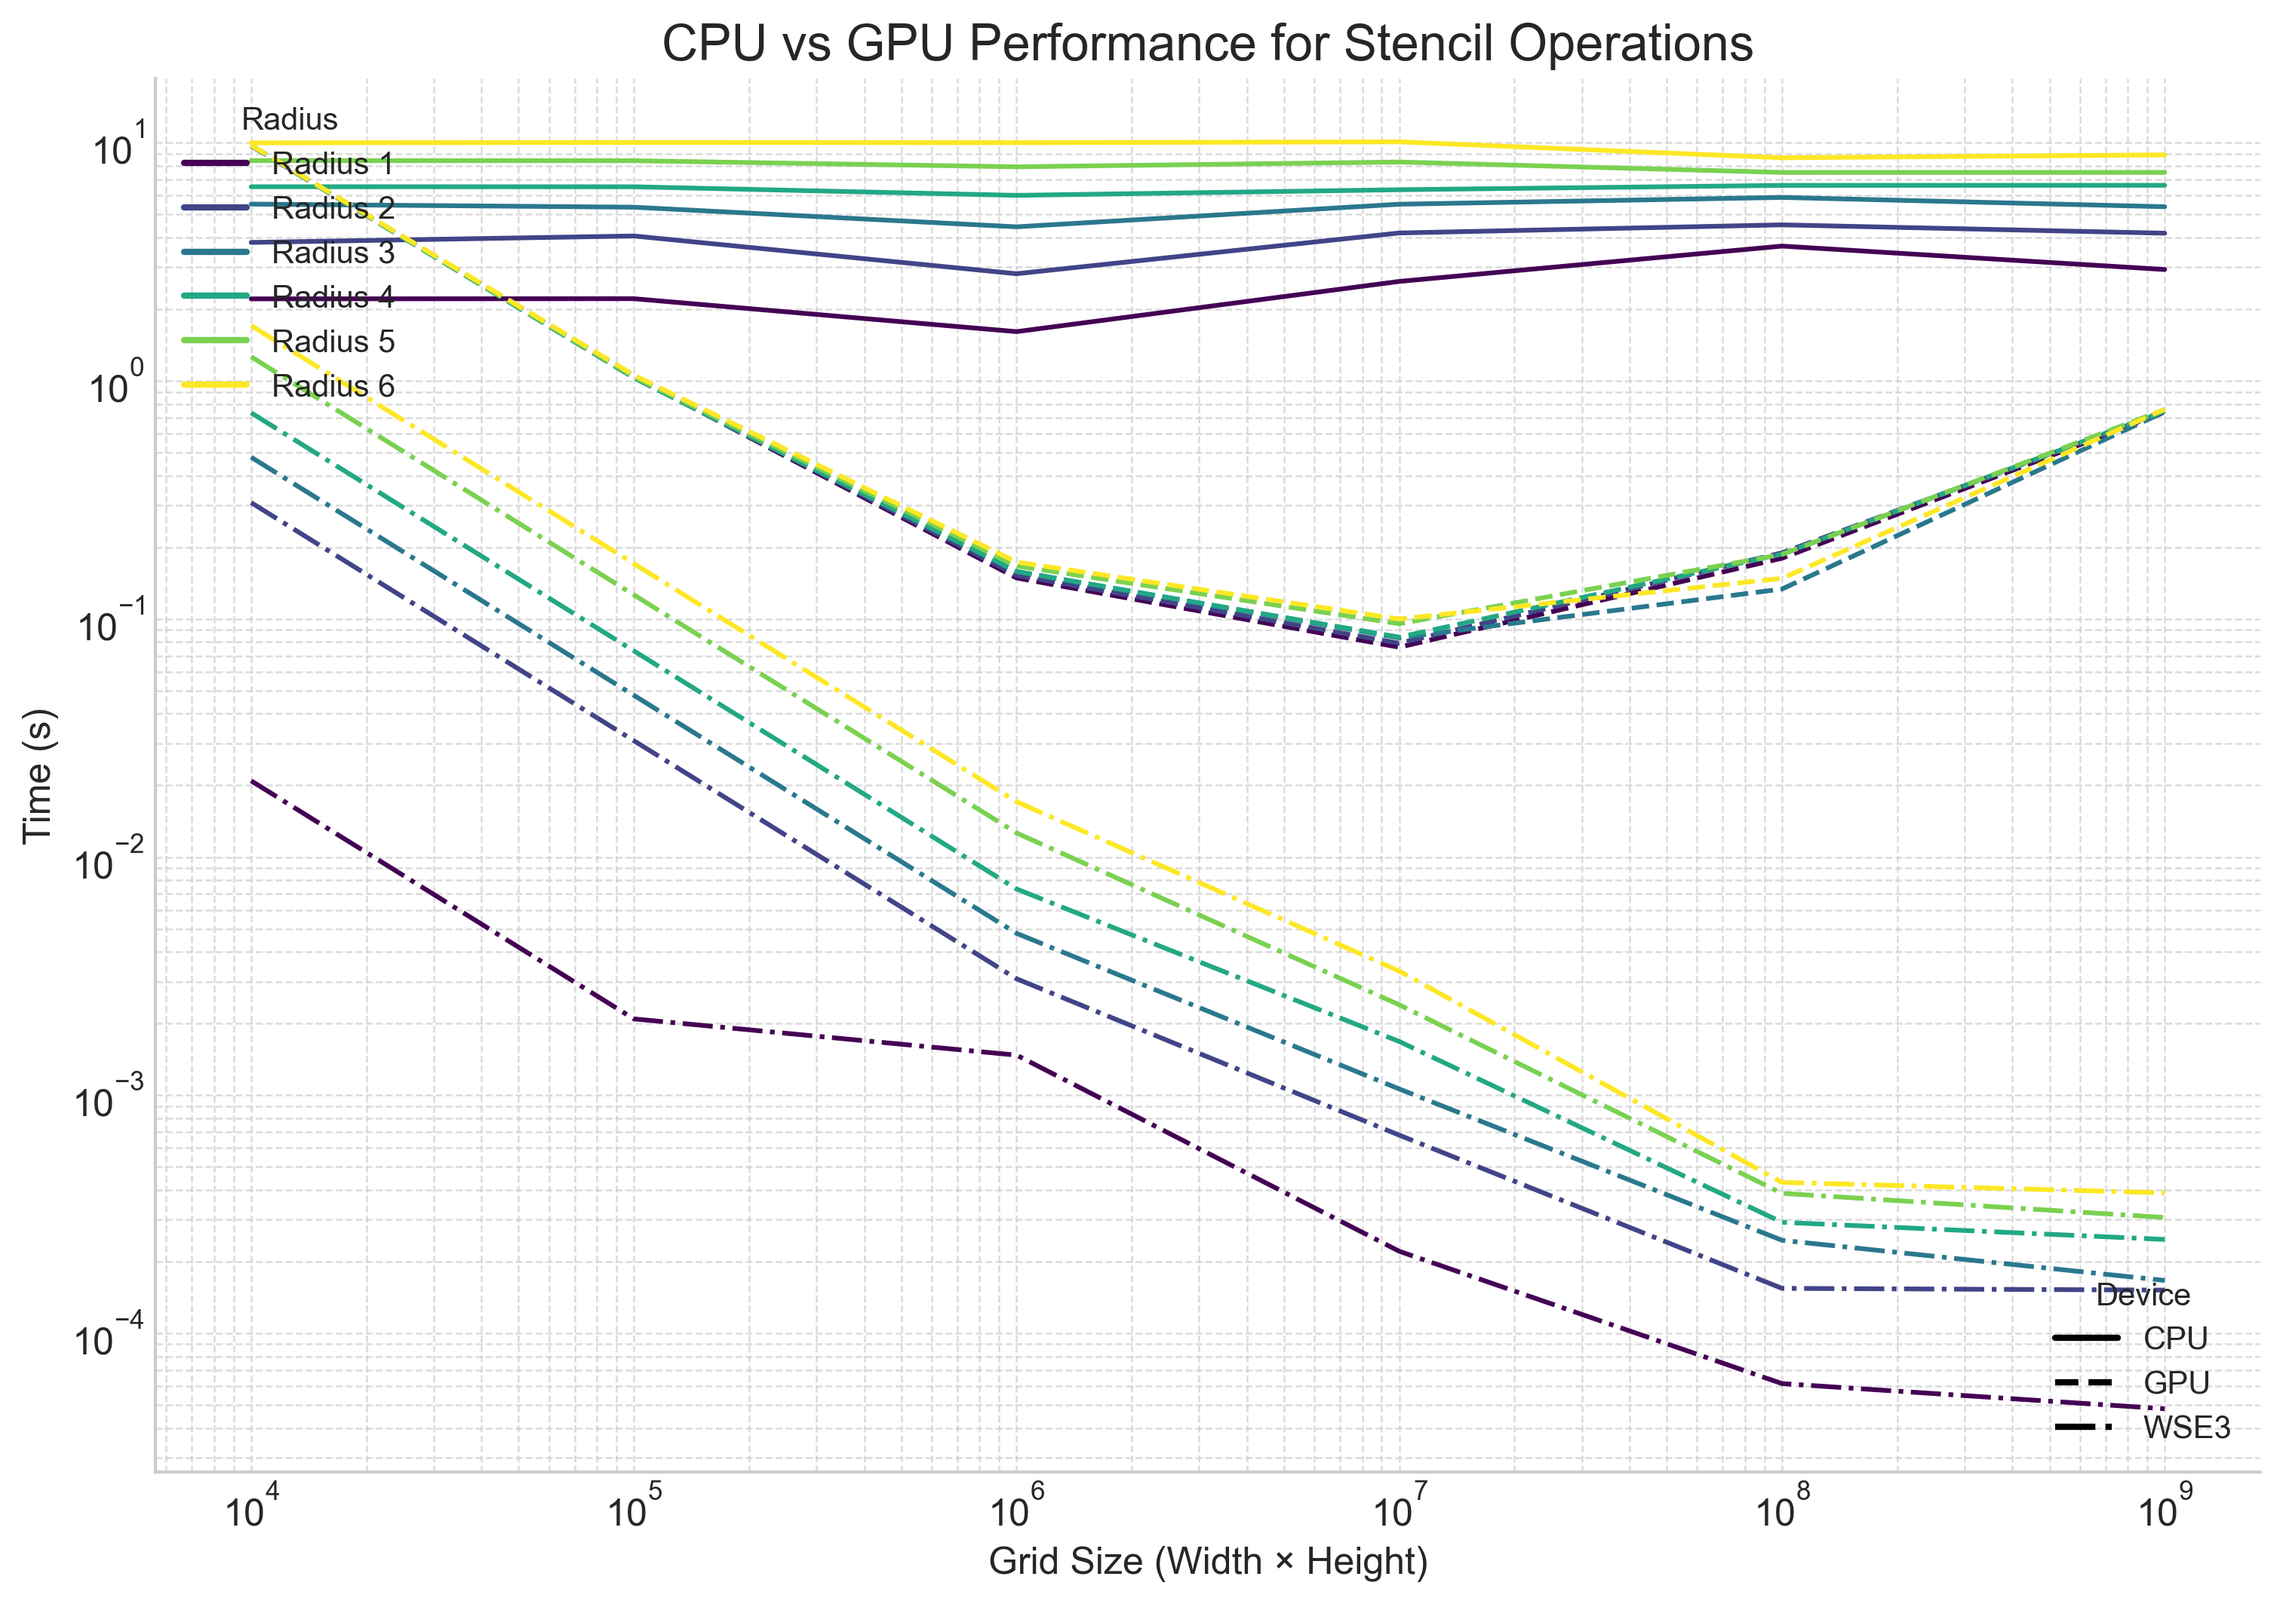
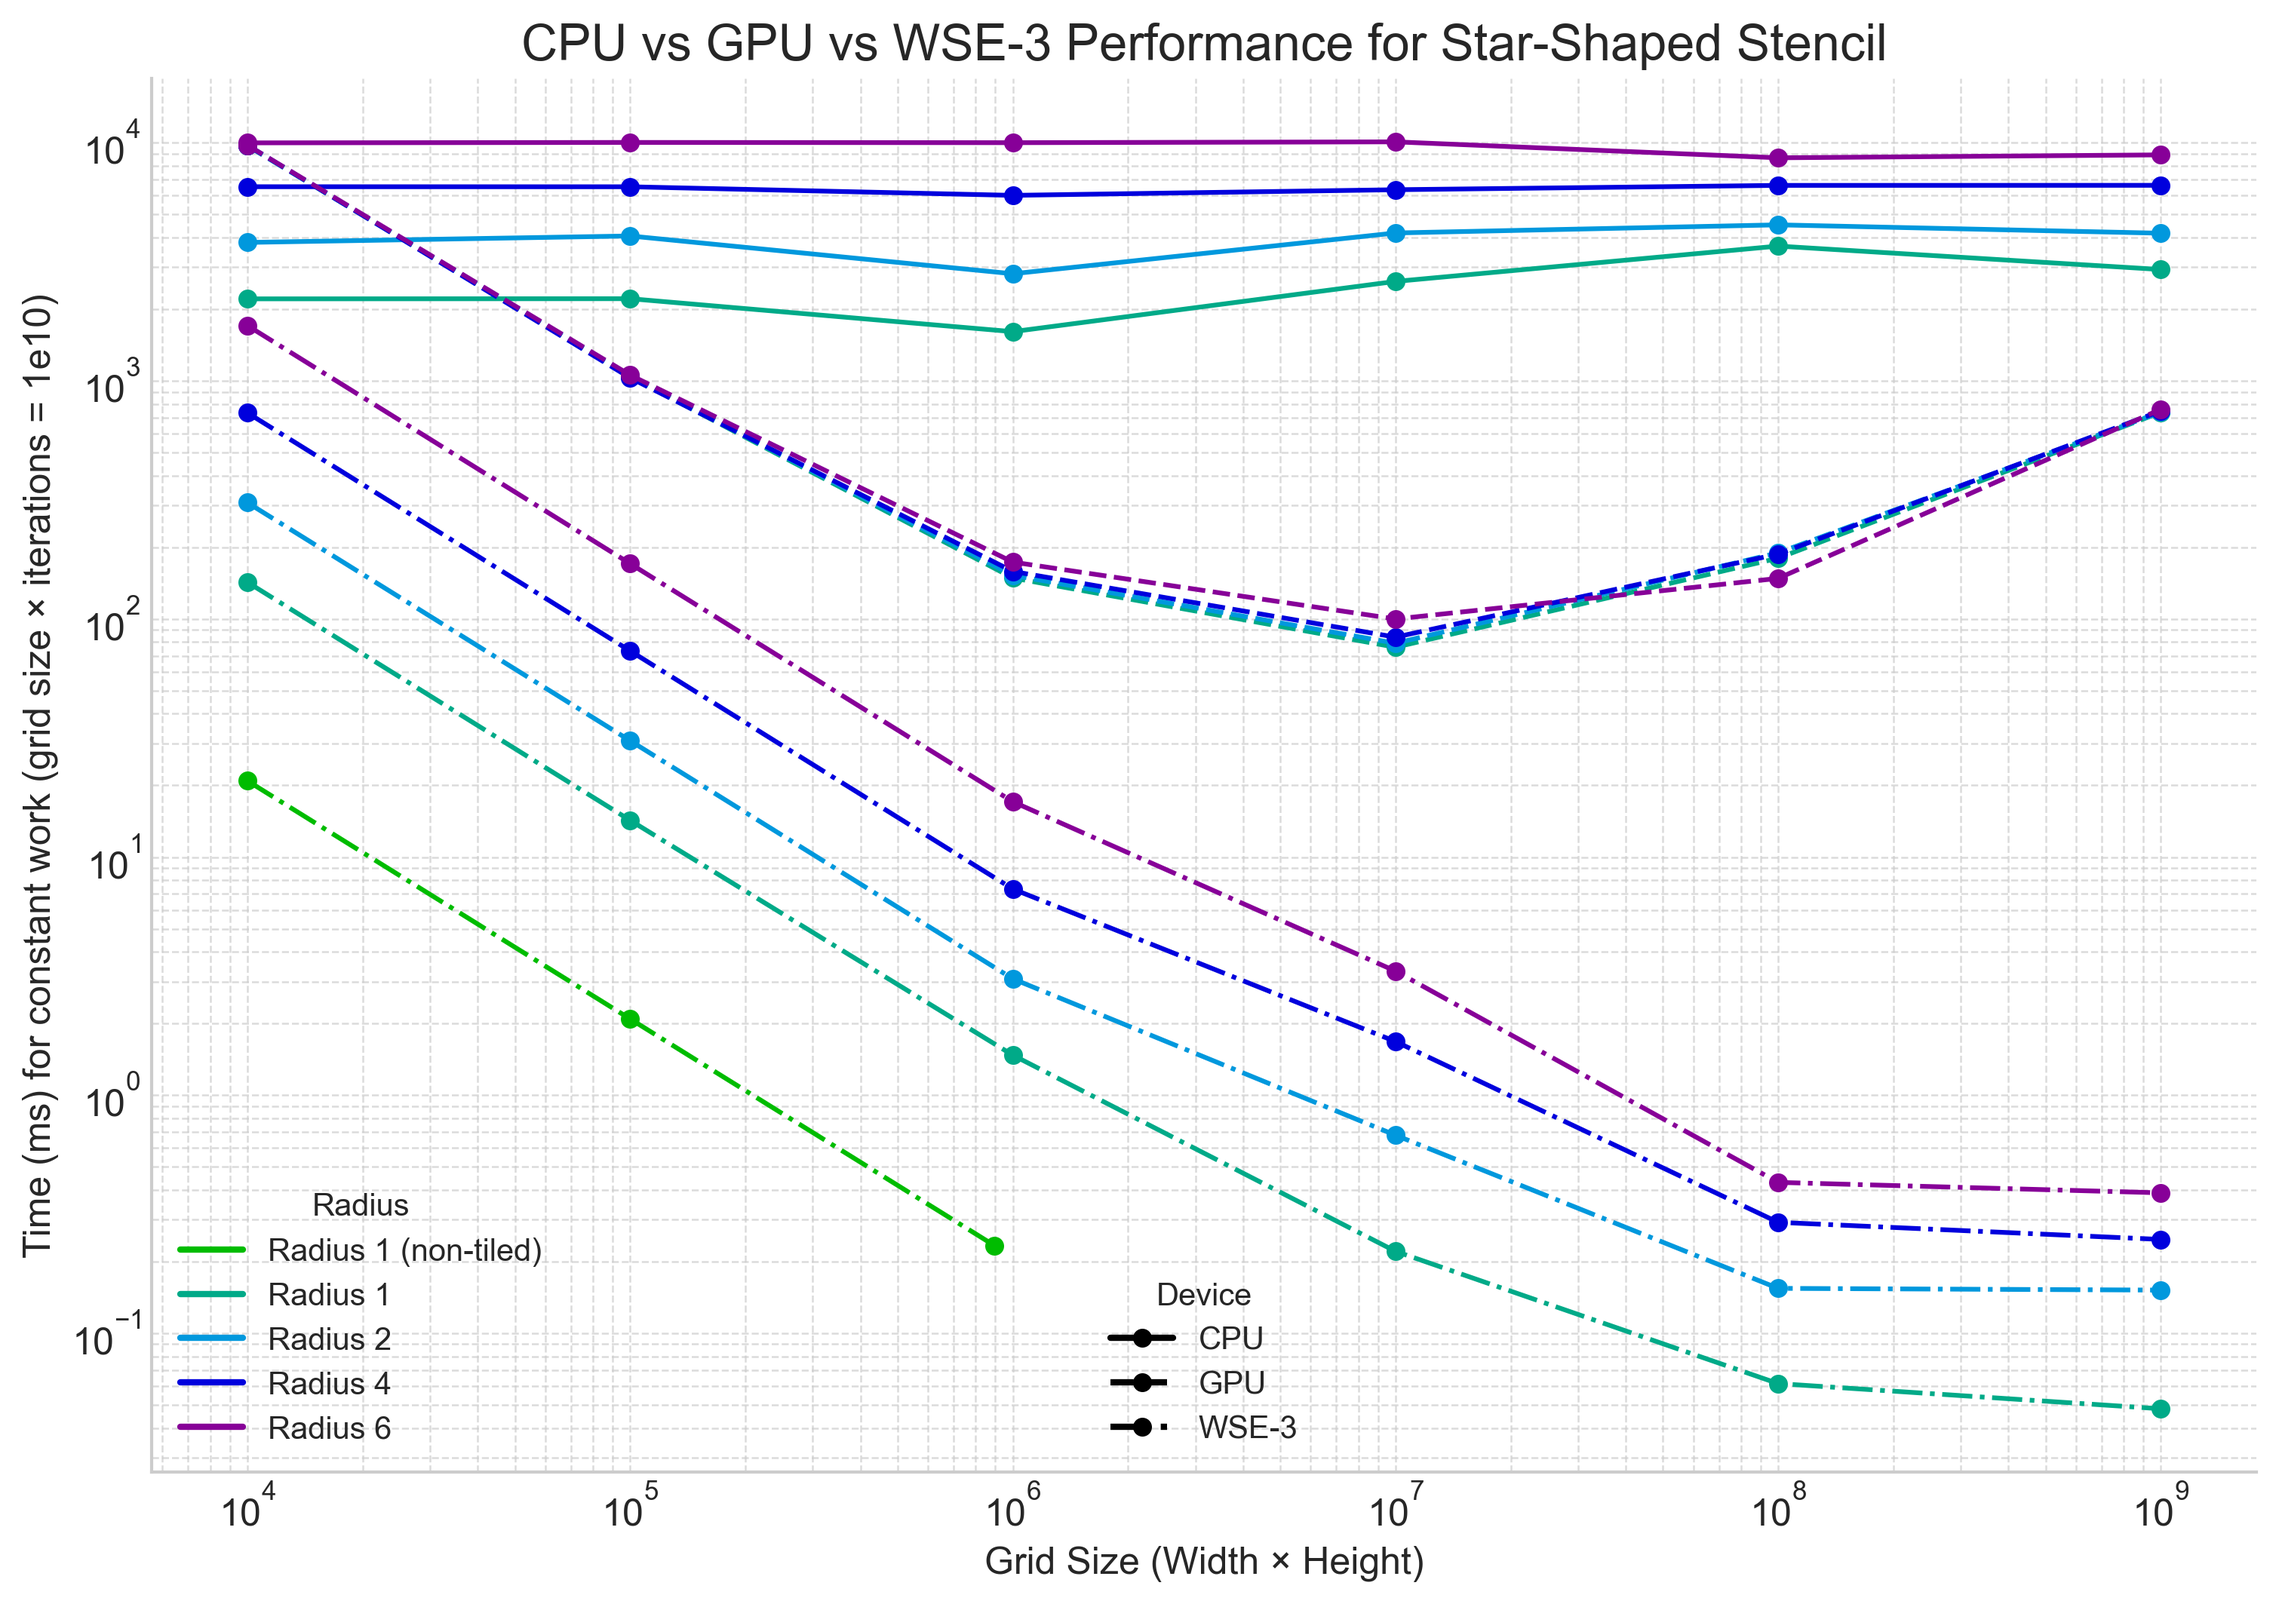
add big compare plot to experiments section

diff --git a/Figures/code/plot_gpu_cpu_constant_product.py b/Figures/code/plot_gpu_cpu_constant_product.py
@@ -52,6 +52,13 @@ Width,Height,Radius,Iterations (N),CPU Time (s),GPU Time (s)
 df_cpu_gpu = pd.read_csv(io.StringIO(data))
 df_cpu_gpu['Grid Size'] = df_cpu_gpu['Width'] * df_cpu_gpu['Height']
 
+# Compute throughput (iterations per second)
+df_cpu_gpu['CPU Iter/s'] = df_cpu_gpu['Iterations (N)'] / df_cpu_gpu['CPU Time (s)']
+df_cpu_gpu['GPU Iter/s'] = df_cpu_gpu['Iterations (N)'] / df_cpu_gpu['GPU Time (s)']
+# Also add time in ms for plotting
+df_cpu_gpu['CPU Time (ms)'] = df_cpu_gpu['CPU Time (s)'] * 1000
+df_cpu_gpu['GPU Time (ms)'] = df_cpu_gpu['GPU Time (s)'] * 1000
+
 # ---------------------------------
 # Cerebras WSE3 data (cycles/iteration)
 # ---------------------------------
@@ -67,6 +74,8 @@ TOTAL_WORK = 10 ** 10
 CLOCK_HZ = 1.1e9  # 1.1 GHz
 MAX_ON_CHIP_GRID = 762 * 1176  # 896 112
 
+USE_IPS = False
+
 # Helper to convert cycles → seconds for given grid size
 def cycles_to_time(cycles_per_iter: int, grid_size: float) -> float:
     iterations = TOTAL_WORK / grid_size
@@ -78,6 +87,7 @@ wse3_cycles = {
     1e8:  {1: 676,  2: 1698,  3: 2703,  4: 3216,  5: 4256,  6: 4732},
     1e7:  {1: 243,  2: 747,  3: 1168,  4: 1848,  5: 2635,  6: 3652},
     1e6:  {1: 162,  2: 339,  3: 526,  4: 808,  5: 1389, 6: 1879},
+    MAX_ON_CHIP_GRID:  {0: 23}, # r=1 overridden below
     1e5:  {1: 157,  2: 339,  3: 526,  4: 808,  5: 1389, 6: 1879},  # r=1 overridden below
     1e4:  {1: 157,  2: 339,  3: 526,  4: 808,  5: 1389, 6: 1879},  # r=1 overridden below
 }
@@ -86,9 +96,27 @@ wse3_cycles = {
 wse3_rows = []
 for grid_size, radius_dict in wse3_cycles.items():
     for radius, cycles in radius_dict.items():
-        eff_cycles = 23 if (radius == 1 and grid_size <= MAX_ON_CHIP_GRID) else cycles
-        time_s = cycles_to_time(eff_cycles, grid_size)
-        wse3_rows.append({'Grid Size': grid_size, 'Radius': radius, 'WSE3 Time (s)': time_s})
+        if radius <= 1:
+            # Add both tiled and non-tiled versions for radius 1
+            if grid_size <= MAX_ON_CHIP_GRID:
+                # Non-tiled version (23 cycles)
+                time_s = cycles_to_time(23, grid_size)
+                time_ms = time_s * 1000
+                iter_per_sec = 1.0 / (23 / CLOCK_HZ)
+                wse3_rows.append({'Grid Size': grid_size, 'Radius': 0, 'WSE3 Iter/s': iter_per_sec, 'WSE3 Time (s)': time_s, 'WSE3 Time (ms)': time_ms})
+            
+            if radius == 1:
+                # Tiled version (original cycles)
+                time_s = cycles_to_time(cycles, grid_size)
+                time_ms = time_s * 1000
+                iter_per_sec = 1.0 / (cycles / CLOCK_HZ)
+                wse3_rows.append({'Grid Size': grid_size, 'Radius': radius, 'WSE3 Iter/s': iter_per_sec, 'WSE3 Time (s)': time_s, 'WSE3 Time (ms)': time_ms})
+        else:
+            # Other radii (unchanged)
+            time_s = cycles_to_time(cycles, grid_size)
+            time_ms = time_s * 1000
+            iter_per_sec = 1.0 / (cycles / CLOCK_HZ)
+            wse3_rows.append({'Grid Size': grid_size, 'Radius': radius, 'WSE3 Iter/s': iter_per_sec, 'WSE3 Time (s)': time_s, 'WSE3 Time (ms)': time_ms})
 
 df_wse3 = pd.DataFrame(wse3_rows)
 
@@ -99,46 +127,59 @@ df_wse3 = pd.DataFrame(wse3_rows)
 plt.style.use('seaborn-v0_8-whitegrid')
 fig, ax = plt.subplots(figsize=(12, 8))
 
-radii_sorted = sorted(df_cpu_gpu['Radius'].unique())
-colors = plt.cm.viridis(np.linspace(0, 1, len(radii_sorted)))
+# Get all unique radii from both CPU/GPU and WSE3 data
+use_radii = [0, 1, 2, 4, 6]
 
-for i, radius in enumerate(radii_sorted):
-    # CPU / GPU lines
+cpu_gpu_radii = sorted(set(df_cpu_gpu['Radius'].unique()) & set(use_radii))
+wse3_radii = sorted(set(df_wse3['Radius'].unique()) & set(use_radii))
+all_radii = sorted(set(cpu_gpu_radii + wse3_radii))
+
+# Create color mapping
+colors = plt.cm.nipy_spectral(np.linspace(0.5, 0.1, len(all_radii)))
+color_map = {radius: colors[i] for i, radius in enumerate(all_radii)}
+
+metric = 'Iter/s' if USE_IPS else 'Time (ms)'
+
+# Plot CPU/GPU data
+for radius in cpu_gpu_radii:
     df_rad = df_cpu_gpu[df_cpu_gpu['Radius'] == radius].sort_values('Grid Size')
-    ax.plot(df_rad['Grid Size'], df_rad['CPU Time (s)'], linestyle='-',  color=colors[i])
-    ax.plot(df_rad['Grid Size'], df_rad['GPU Time (s)'], linestyle='--', color=colors[i])
+    ax.plot(df_rad['Grid Size'], df_rad['CPU ' + metric], linestyle='-',  color=color_map[radius], marker='o')
+    ax.plot(df_rad['Grid Size'], df_rad['GPU ' + metric], linestyle='--', color=color_map[radius], marker='o')
 
-    # WSE3 line (may have fewer points)
+# Plot WSE3 data
+for radius in wse3_radii:
     df_wse3_rad = df_wse3[df_wse3['Radius'] == radius].sort_values('Grid Size')
     if not df_wse3_rad.empty:
-        ax.plot(df_wse3_rad['Grid Size'], df_wse3_rad['WSE3 Time (s)'], linestyle='-.', color=colors[i])
+        ax.plot(df_wse3_rad['Grid Size'], df_wse3_rad['WSE3 ' + metric], linestyle='-.', color=color_map[radius], marker='o')
 
 # Set log scale for x and y-axis for better visualization
 ax.set_xscale('log')
 ax.set_yscale('log')
 
 # Adding titles and labels
-ax.set_title('CPU vs GPU Performance for Stencil Operations')
+ax.set_title('CPU vs GPU vs WSE-3 Performance for Star-Shaped Stencil')
 ax.set_xlabel('Grid Size (Width × Height)')
-ax.set_ylabel('Time (s)')
+ylabel = 'Iterations per second' if USE_IPS else 'Time (ms) for constant work (grid size × iterations = 1e10)'
+ax.set_ylabel(ylabel)
 
-# Create custom legends
-legend_elements_radius = [Line2D([0], [0], color=colors[i], lw=2, label=f'Radius {r}') for i, r in enumerate(radii_sorted)]
+# Move legends
+legend_elements_radius = []
+for radius in all_radii:
+    legend_elements_radius.append(Line2D([0], [0], color=color_map[radius], lw=2, label=f'Radius {radius if radius != 0 else "1 (non-tiled)"}'))
 
-# Draw the radius legend first so it stays when device legend is added later
-first_legend = plt.legend(handles=legend_elements_radius, loc='upper left', title='Radius')
+first_legend = plt.legend(handles=legend_elements_radius, loc='lower left', title='Radius')
 ax.add_artist(first_legend)
 
 legend_elements_device = [
-    Line2D([0], [0], color='black', lw=2, linestyle='-',  label='CPU'),
-    Line2D([0], [0], color='black', lw=2, linestyle='--', label='GPU'),
-    Line2D([0], [0], color='black', lw=2, linestyle='-.', label='WSE3')
+    Line2D([0], [0], color='black', lw=2, linestyle='-',  marker='o', label='CPU'),
+    Line2D([0], [0], color='black', lw=2, linestyle='--', marker='o', label='GPU'),
+    Line2D([0], [0], color='black', lw=2, linestyle='-.', marker='o', label='WSE-3')
 ]
-plt.legend(handles=legend_elements_device, loc='lower right', title='Device')
+plt.legend(handles=legend_elements_device, loc='lower center', title='Device')
 
 ax.grid(True, which="both", ls="--")
 
 # Save the plot
-plt.savefig('gpu_cpu_wse3_constant_product.png', dpi=300, bbox_inches='tight')
-
-print("Plot saved to gpu_cpu_wse3_constant_product.png")
+filename = 'gpu_cpu_wse3_constant_product_ips.png' if USE_IPS else 'gpu_cpu_wse3_constant_product.png'
+plt.savefig(filename, dpi=300, bbox_inches='tight')
+print(f"Plot saved to {filename}")

diff --git a/03_Content/6_Experiments.tex b/03_Content/6_Experiments.tex
@@ -117,7 +117,7 @@ For the first experiment, we ran the optimized stencil code on \ac{cpu} and \ac{
 
 \begin{figure}[h]
     \centering
-    \includegraphics[width=0.5\linewidth]{gpu_cpu_constant_product.png}
+    \includegraphics[width=1\linewidth]{gpu_cpu_wse3_constant_product.png}
     \caption{Comparison of \ac{cpu} and \ac{gpu} performance for different grid sizes and number of iterations, so that $width \times height \times iterations = \num{1e10}$}
     \label{fig:gpu_cpu_constant_product}
 \end{figure}
